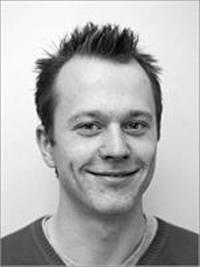
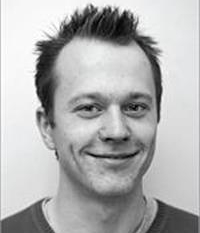
mnt: increase collaborator figures size

diff --git a/_pages/l4-collaborations.html b/_pages/l4-collaborations.html
@@ -21,10 +21,10 @@ background-image: flickr-IanGlover_c.jpg
 
   <div class="box alt">
     <div class="row uniform 50%">
-      <div class="2u">
+      <div class="4u">
 	<img style="width:100%" src="{{ site.baseurl }}/images/Daniel_Sanchez-Portal.jpg" />
       </div>
-      <div class="10u">
+      <div class="8u">
 	&nbsp;
 	<b>
 	  <a target="_blank" href="https://scholar.google.es/citations?user=gzIKHjIAAAAJ&hl=en">
@@ -37,10 +37,10 @@ background-image: flickr-IanGlover_c.jpg
 
   <div class="box alt">
     <div class="row uniform 50%">
-      <div class="2u">
+      <div class="4u">
 	<img style="width:100%" src="{{ site.baseurl }}/images/Nicolas_Lorente.jpg" />
       </div>
-      <div class="10u">
+      <div class="8u">
 	&nbsp;
 	<b>
 	  <a target="_blank" href="https://cfm.ehu.es/team/nicolas-lorente-palacios/">
@@ -61,10 +61,10 @@ background-image: flickr-IanGlover_c.jpg
 
   <div class="box alt">
     <div class="row uniform 50%">
-      <div class="2u">
+      <div class="4u">
 	<img style="width:100%" src="{{ site.baseurl }}/images/Nick_Papior.jpg" />
       </div>
-      <div class="10u">
+      <div class="8u">
 	&nbsp;
 	<b>
 	  <a target="_blank" href="http://www.compute.dtu.dk">
@@ -85,10 +85,10 @@ background-image: flickr-IanGlover_c.jpg
 
   <div class="box alt">
     <div class="row uniform 50%">
-      <div class="2u">
+      <div class="4u">
 	<img style="width:100%" src="{{ site.baseurl }}/images/Aran_Garcia-Lekue.jpg" />
       </div>
-      <div class="10u">
+      <div class="8u">
 	&nbsp;
 	<b>
 	  <a target="_blank" href="http://dipc.ehu.es/garcialekue/Home.html">
@@ -101,10 +101,10 @@ background-image: flickr-IanGlover_c.jpg
 
   <div class="box alt">
     <div class="row uniform 50%">
-      <div class="2u">
+      <div class="4u">
 	<img style="width:100%" src="{{ site.baseurl }}/images/Thomas_Frederiksen.jpg" />
       </div>
-      <div class="10u">
+      <div class="8u">
 	&nbsp;
 	<b>
 	  <a target="_blank" href="http://dipc.ehu.es/frederiksen/">
@@ -117,10 +117,10 @@ background-image: flickr-IanGlover_c.jpg
 
   <div class="box alt">
     <div class="row uniform 50%">
-      <div class="2u">
+      <div class="4u">
 	<img style="width:100%" src="{{ site.baseurl }}/images/Sofia_Sanz.jpg" />
       </div>
-      <div class="10u">
+      <div class="8u">
 	&nbsp;
 	<b>M.S. Sofia Sanz</b>
       </div>
@@ -137,10 +137,10 @@ background-image: flickr-IanGlover_c.jpg
 
   <div class="box alt">
     <div class="row uniform 50%">
-      <div class="2u">
+      <div class="4u">
 	<img style="width:100%" src="{{ site.baseurl }}/images/Mads_Engelund.jpg" />
       </div>
-      <div class="10u">
+      <div class="8u">
 	&nbsp;
 	<b>
 	  <a target="_blank" href="https://espeem.com/about">
@@ -161,10 +161,10 @@ background-image: flickr-IanGlover_c.jpg
 
   <div class="box alt">
     <div class="row uniform 50%">
-      <div class="2u">
+      <div class="4u">
 	<img style="width:100%" src="{{ site.baseurl }}/images/Alexandre_Reily_Rocha.jpg" />
       </div>
-      <div class="10u">
+      <div class="8u">
 	&nbsp;
 	<b>
 	  <a target="_blank" href="http://professores.ift.unesp.br/alexandre.reily/">
@@ -185,10 +185,10 @@ background-image: flickr-IanGlover_c.jpg
 
   <div class="box alt">
     <div class="row uniform 50%">
-      <div class="2u">
+      <div class="4u">
 	<img style="width:100%" src="{{ site.baseurl }}/images/Luana_Pedroza.jpg" />
       </div>
-      <div class="10u">
+      <div class="8u">
 	&nbsp;
 	<b>
 	  <a target="_blank" href="http://ccnh.ufabc.edu.br/pessoas/docentes/526-luana-sucupira-pedroza">
@@ -209,10 +209,10 @@ background-image: flickr-IanGlover_c.jpg
 
   <div class="box alt">
     <div class="row uniform 50%">
-      <div class="2u">
+      <div class="4u">
 	<img style="width:100%" src="{{ site.baseurl }}/images/Cesar_Perez_Villegas.jpg" />
       </div>
-      <div class="10u">
+      <div class="8u">
 	&nbsp;
 	<b>
 	  <a target="_blank" href="https://scholar.google.es/citations?user=TTMMBo8AAAAJ&hl=es">
